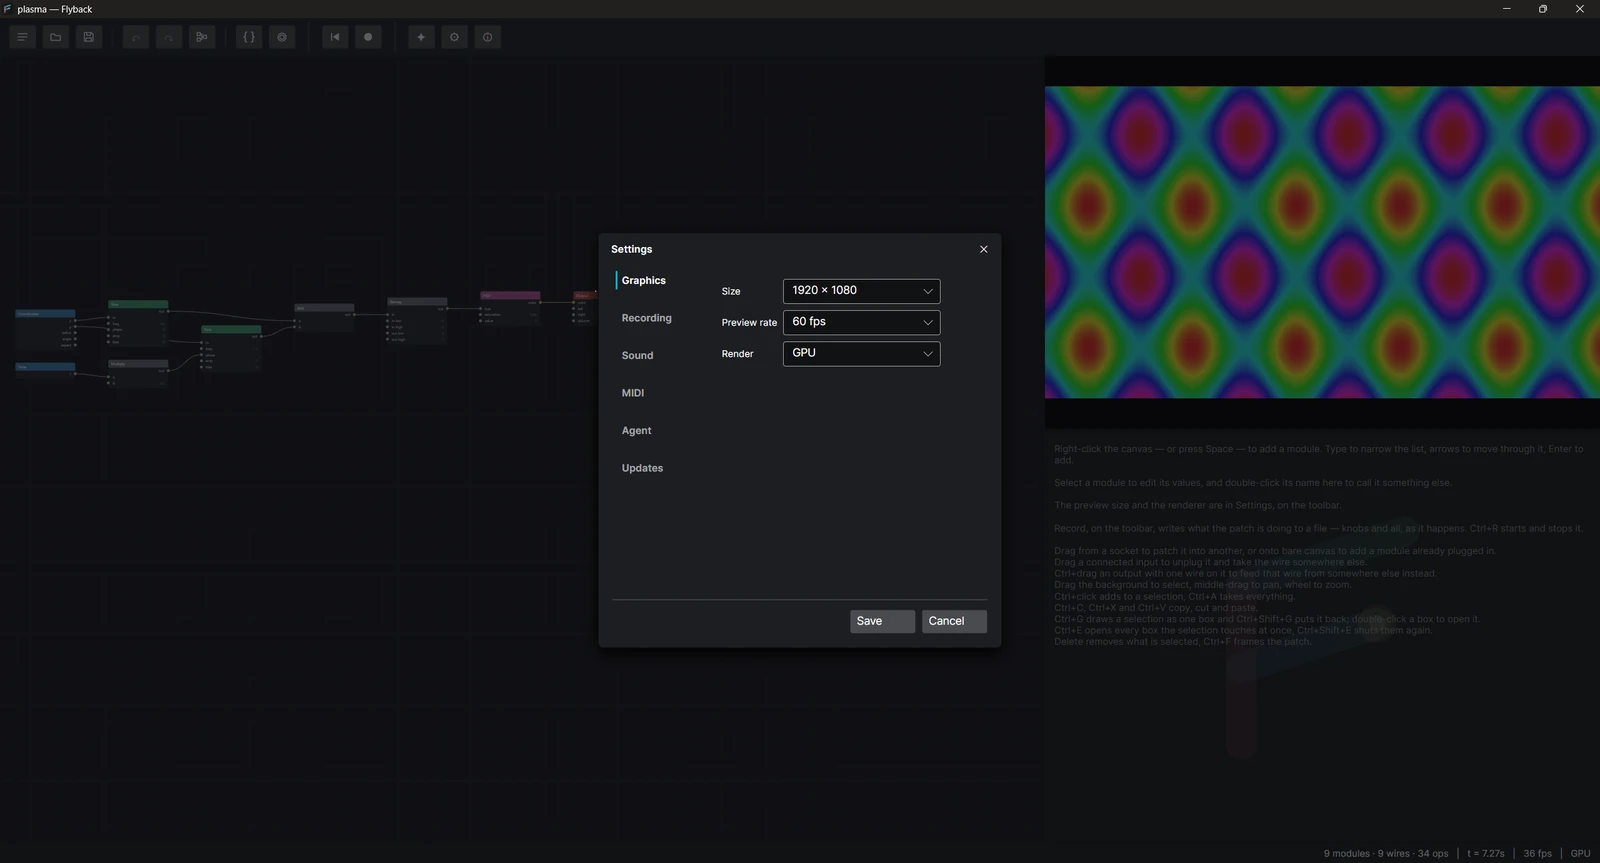
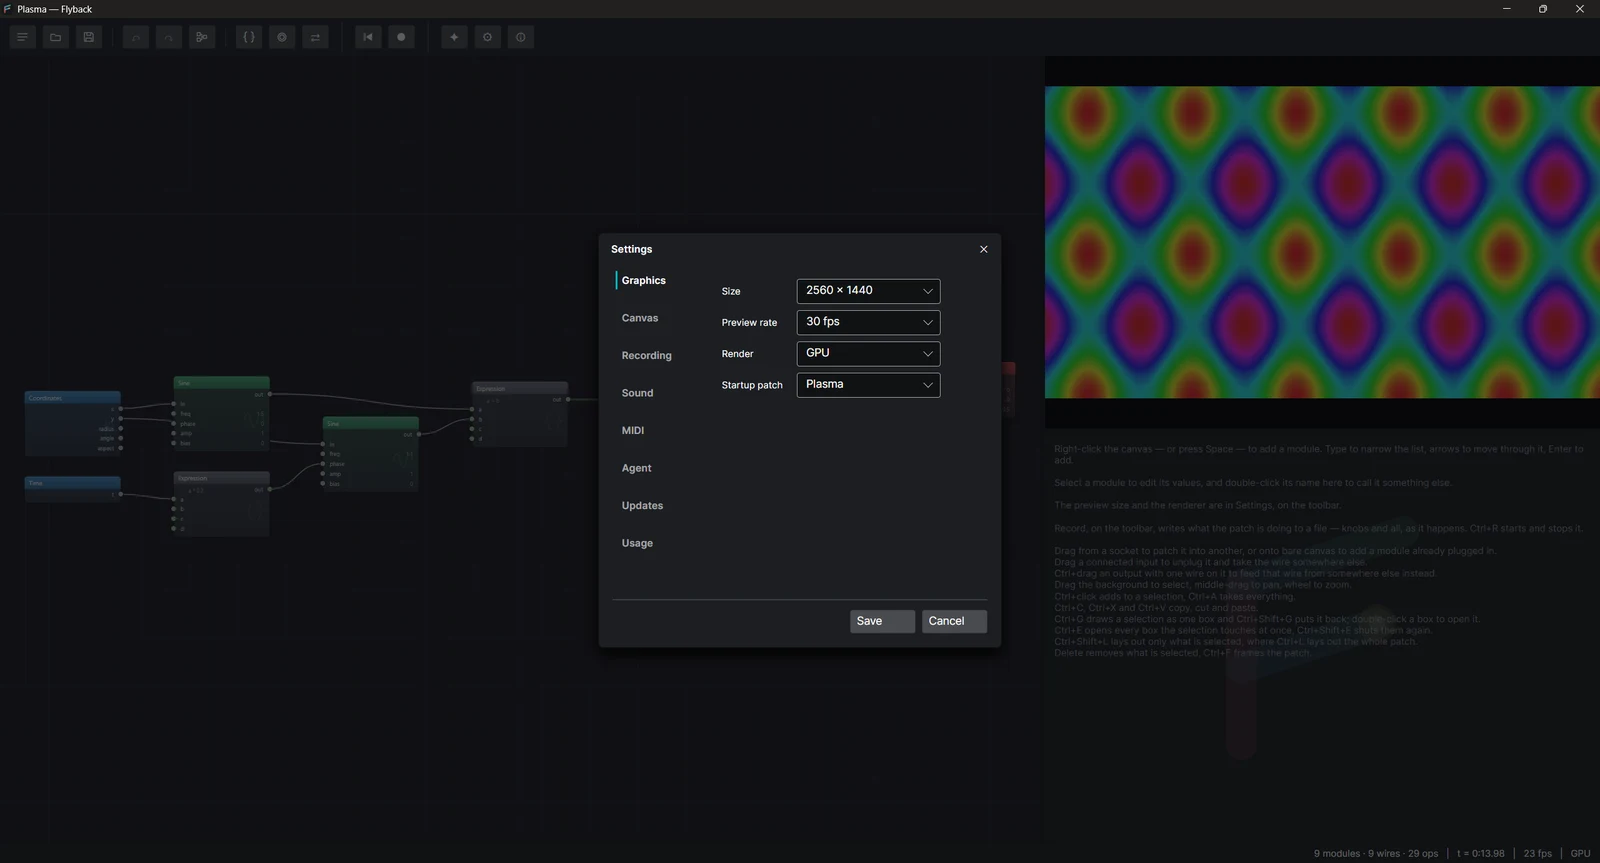
The settings screenshot shows the tabs the window actually has
It was taken before the Usage tab existed and before the Canvas one, so the
website showed six tabs against the app's eight. Retaken from the real app on
the Graphics tab, which has also gained a Startup patch row since, and the alt
text now reads off the new shot.

diff --git a/site/tutorials.html b/site/tutorials.html
@@ -471,7 +471,7 @@ out.volume = 0.5</code></pre>
     <figure>
       <a class="zoom" href="assets/shots/settings.webp" target="_blank" rel="noopener">
         <img class="shot" loading="lazy" src="assets/shots/settings.webp" width="1600" height="863"
-             alt="The Settings window over the dimmed main window, on the Graphics tab: Size 1920 by 1080, Preview rate 60 fps, Render GPU. Tabs for Canvas, Recording, Sound, MIDI, Agent, Updates and Usage are on the left.">
+             alt="The Settings window over the dimmed main window, on the Graphics tab: Size 2560 by 1440, Preview rate 30 fps, Render GPU, Startup patch Plasma. Tabs for Canvas, Recording, Sound, MIDI, Agent, Updates and Usage are on the left.">
       </a>
     </figure>
 
